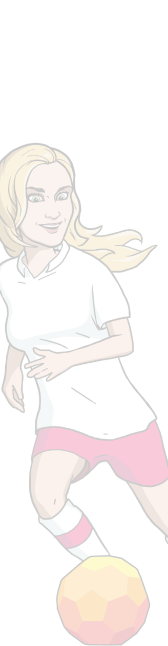
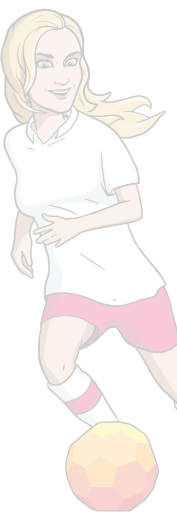
score and things

diff --git a/src/components/GameBoard/GameGrid.vue b/src/components/GameBoard/GameGrid.vue
@@ -32,6 +32,10 @@ export default {
             snake: [92, 93],
             snakeStartState: [92, 93],
             gameInterval: null,
+            scorePerSecondInterval: null,
+            levelUpInterval: null,
+            level: 1,
+            levelUpTimer: 0,
             gameSpeed: 180,
             HeadDirection: {
                 next:'',
@@ -133,9 +137,9 @@ export default {
         },
         endGame(){
             console.log("BANG GAME ENDED")
-            this.$refs.overlay.setState('gameover')
             this.setGameLoop(false)
             this.gameOver = true
+            this.$refs.overlay.setState('gameover')
         },
         pauseGame(){
             if(this.gameOver) return
@@ -143,24 +147,34 @@ export default {
             this.setGameLoop(false)
         },
         setGameLoop(activate){
-            console.log("Change Game Looop")
+            console.log("Game Looop is: ", activate)
             if(activate) {
                 // init game interval
                 this.gameInterval = setInterval(
                     this.gameLoop, // run gameLoop function 
                     this.gameSpeed // how fast to run that function
                 )
+                this.scorePerSecondInterval = setInterval(() => this.score += 1, 100)
+                this.levelUpInterval = setInterval(() => {
+                    this.levelUpTimer += 1
+                    if(this.levelUpTimer >= 100){
+                        this.levelUpTimer = 0
+                        this.level += 1
+                    }
+                } ,200)
             }else { // disable game loop
                 clearInterval(this.gameInterval)
+                clearInterval(this.scorePerSecondInterval)
+                clearInterval(this.levelUpInterval)
             }
         },
         newGame(){
             console.log("Starting new game")
             // cleanup from last game
             this.setGameLoop(false)
-            this.$refs.overlay.setState('newgame')
             
             // setup
+            this.score = 0
             this.snake = this.snakeStartState
             this.HeadDirection = {
                 next:'',
@@ -170,6 +184,7 @@ export default {
 
             this.gameOver = false
             this.setGameLoop(true)
+            this.$refs.overlay.setState('newgame')
 
         },
         newApples(amount=2){
@@ -241,8 +256,12 @@ export default {
             if(this.applesOnGrid.includes(snakeHead)){
                 const appleIndex = this.applesOnGrid.findIndex(i => i == snakeHead)
                 if(appleIndex == 0) { // first index is the correct answer
-                    this.$refs.overlay.setState('gain', "+10")
+                    this.$refs.overlay.setState('gain', "+100")
+                    this.score += 100
+                    console.log(this.score, localStorage.score)
                 } else {
+                    this.snake.unshift(999)
+                    this.snake.unshift(999)
                     this.snake.unshift(999)
                     this.snake.unshift(999)
 
@@ -294,6 +313,40 @@ export default {
         
         
     },
+    mounted() {
+        if (localStorage.score) {
+            this.score = parseInt(localStorage.score);
+        }else{
+            localStorage.score = 0
+            this.score = parseInt(localStorage.score);
+        }
+
+        if (localStorage.level) {
+            this.level = parseInt(localStorage.level);
+        }else{
+            localStorage.level = 1
+            this.level = parseInt(localStorage.level);
+        }
+
+        if (localStorage.levelUpTimer) {
+            this.levelUpTimer = parseInt(localStorage.levelUpTimer);
+        }else{
+            localStorage.levelUpTimer = 1
+            this.levelUpTimer = parseInt(localStorage.levelUpTimer);
+        }
+    },
+    watch: {
+        score(newScore){
+            localStorage.score = newScore
+        },
+        level(newLevel){
+            localStorage.level = newLevel
+        },
+        levelUpTimer(newLevelUpTimer){
+            localStorage.levelUpTimer = newLevelUpTimer
+        }
+
+    }
 }
 </script>
 
@@ -302,6 +355,8 @@ export default {
     display: flex;
     flex-wrap: wrap;
     position: relative;
+    overflow: hidden;
+    border-radius: 0px 0px 8px 8px;
 }
 
 .grid-block {

diff --git a/src/components/GameBoard/HeadSection.vue b/src/components/GameBoard/HeadSection.vue
@@ -2,75 +2,102 @@
     <div class="head-section">
         <div class="score-container">
             <h4>Score</h4>
-            <h3>2300030</h3>
+            <h3>{{score | paddzeros}}</h3>
         </div>
         <div class="bonuscheck-container">
-            <h4>Hatrik Bonus <span>2</span></h4>
-            <h3>1000</h3>
+            <!-- <h4>Hatrik Bonus <span>2</span></h4>
+            <h3>1000</h3> -->
         </div>
         <div class="levelup-container">
-            <h4>Level <span>2</span></h4>
-            <div class="levelup-countdown"></div>
+            <h4>Level <span>{{level}}</span></h4>
+            <div class="levelup-countdown">
+                <div class="progress"
+                    v-bind:style="{width: levelUpTimer + '%'}"
+                ></div>
+            </div>
         </div>
     </div>
 </template>
 
 <script>
-    export default {
-        
-    }
+export default {
+    data() {
+        return {
+            score: localStorage.getItem('score'),
+            level: localStorage.getItem('level'),
+            levelUpTimer: localStorage.getItem('levelUpTimer')
+        }
+    },
+    filters: {
+        paddzeros: function (value) {
+            if (!value) return ''
+            value = value.toString()
+            return value.padStart(7, '0')
+        }
+    },
+    mounted() {
+        setInterval(() => this.update(), 10)
+    },
+    methods: {
+        update(){
+            this.score = localStorage.getItem('score')
+            this.level = localStorage.getItem('level')
+            this.levelUpTimer = localStorage.getItem('levelUpTimer')
+        }
+    },
+}
 </script>
 
 <style lang="scss" scoped>
-    .head-section{
-        display: grid;
-        grid-template-columns: 1fr 1fr 1fr;
+.head-section{
+    border-radius: 18px 18px 0 0;
+    display: grid;
+    grid-template-columns: 1fr 1fr 1fr;
+    width: 100%;
+    justify-content: space-between;
+    padding: 16px 21px;
+    padding-bottom: 0;
+    background: $secondary;
+    color: $text-white;
+}
+
+.score-container {
+    text-align: left;
+    
+    h3 {
+        color: $primary
+    }
+}
+.bonuscheck-container {
+
+}
+
+.levelup-container {
+    text-align: right;
+    justify-self: end;
+
+    .levelup-countdown {
+        position: relative;
+        background: $text-white;
+        border: solid;
         width: 100%;
-        justify-content: space-between;
-        padding: 16px 21px;
-        padding-bottom: 0;
-        background: $secondary;
-        color: $text-white;
-    }
+        margin-bottom: 16px;
+        min-height: 16px;
+        display: inline-block;
+        top: 5px;
+        border-radius: 3.5px;
+        overflow: hidden;
 
-    .score-container {
-        text-align: left;
-        
-        h3 {
-            color: $primary
-        }
-    }
-    .bonuscheck-container {
-
-    }
-
-    .levelup-container {
-        text-align: right;
-        justify-self: end;
-
-        .levelup-countdown {
-            position: relative;
-            background: $text-white;
-            border: solid;
-            width: 100%;
-            margin-bottom: 16px;
-            min-height: 16px;
+        .progress {
+            position: absolute;
+            width: calc(100% + 2px);
+            background: $primary;
             display: inline-block;
-            top: 5px;
-            border-radius: 3.5px;
-            overflow: hidden;
-
-            &::after {
-                content: "";
-                position: absolute;
-                width: calc(100% + 2px);
-                background: $primary;
-                display: inline-block;
-                left: -1px;
-                top: -1px;
-                bottom: -1px;
-                border-radius: 60px;
-            }
+            left: -1px;
+            top: -1px;
+            bottom: -1px;
+            border-radius: 60px;
         }
     }
+}
 </style>

diff --git a/src/components/GameBoard.vue b/src/components/GameBoard.vue
@@ -22,9 +22,22 @@ export default {
 <style lang="scss" scoped>
     .game-board {
         color: $dark-gray;
-        overflow: hidden;
+        // overflow: hidden;
         border: solid $secondary 2px;
         border-radius: 18px;
+        position: relative;
+
+        &::before  {
+            content: "";
+            display: block;
+            position: absolute;
+            left: -177px;
+            top: 258px;
+            height: 512px;
+            width: 177px;
+            background: url(../assets/play-cartoon.png);
+            background-size: cover;
+        }
     }
 
 </style>
